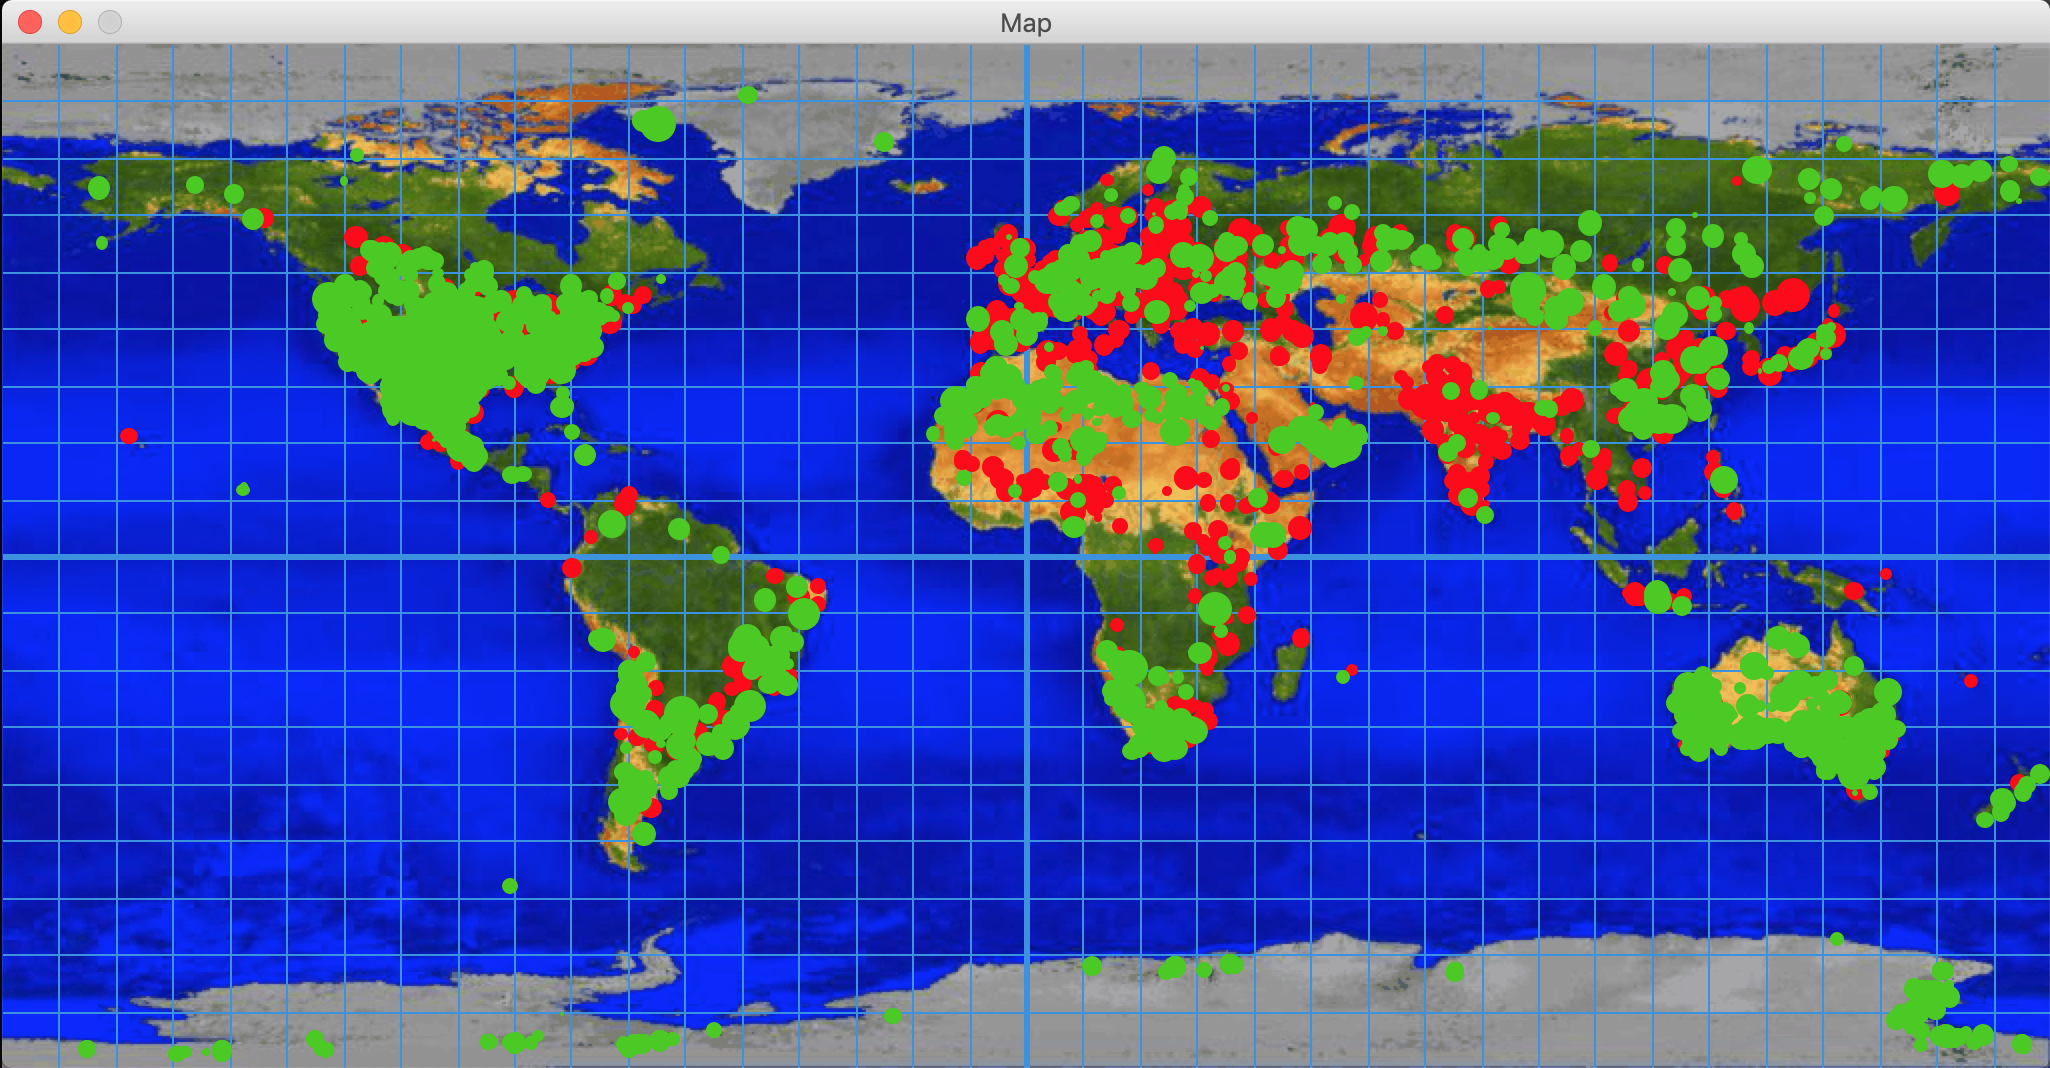
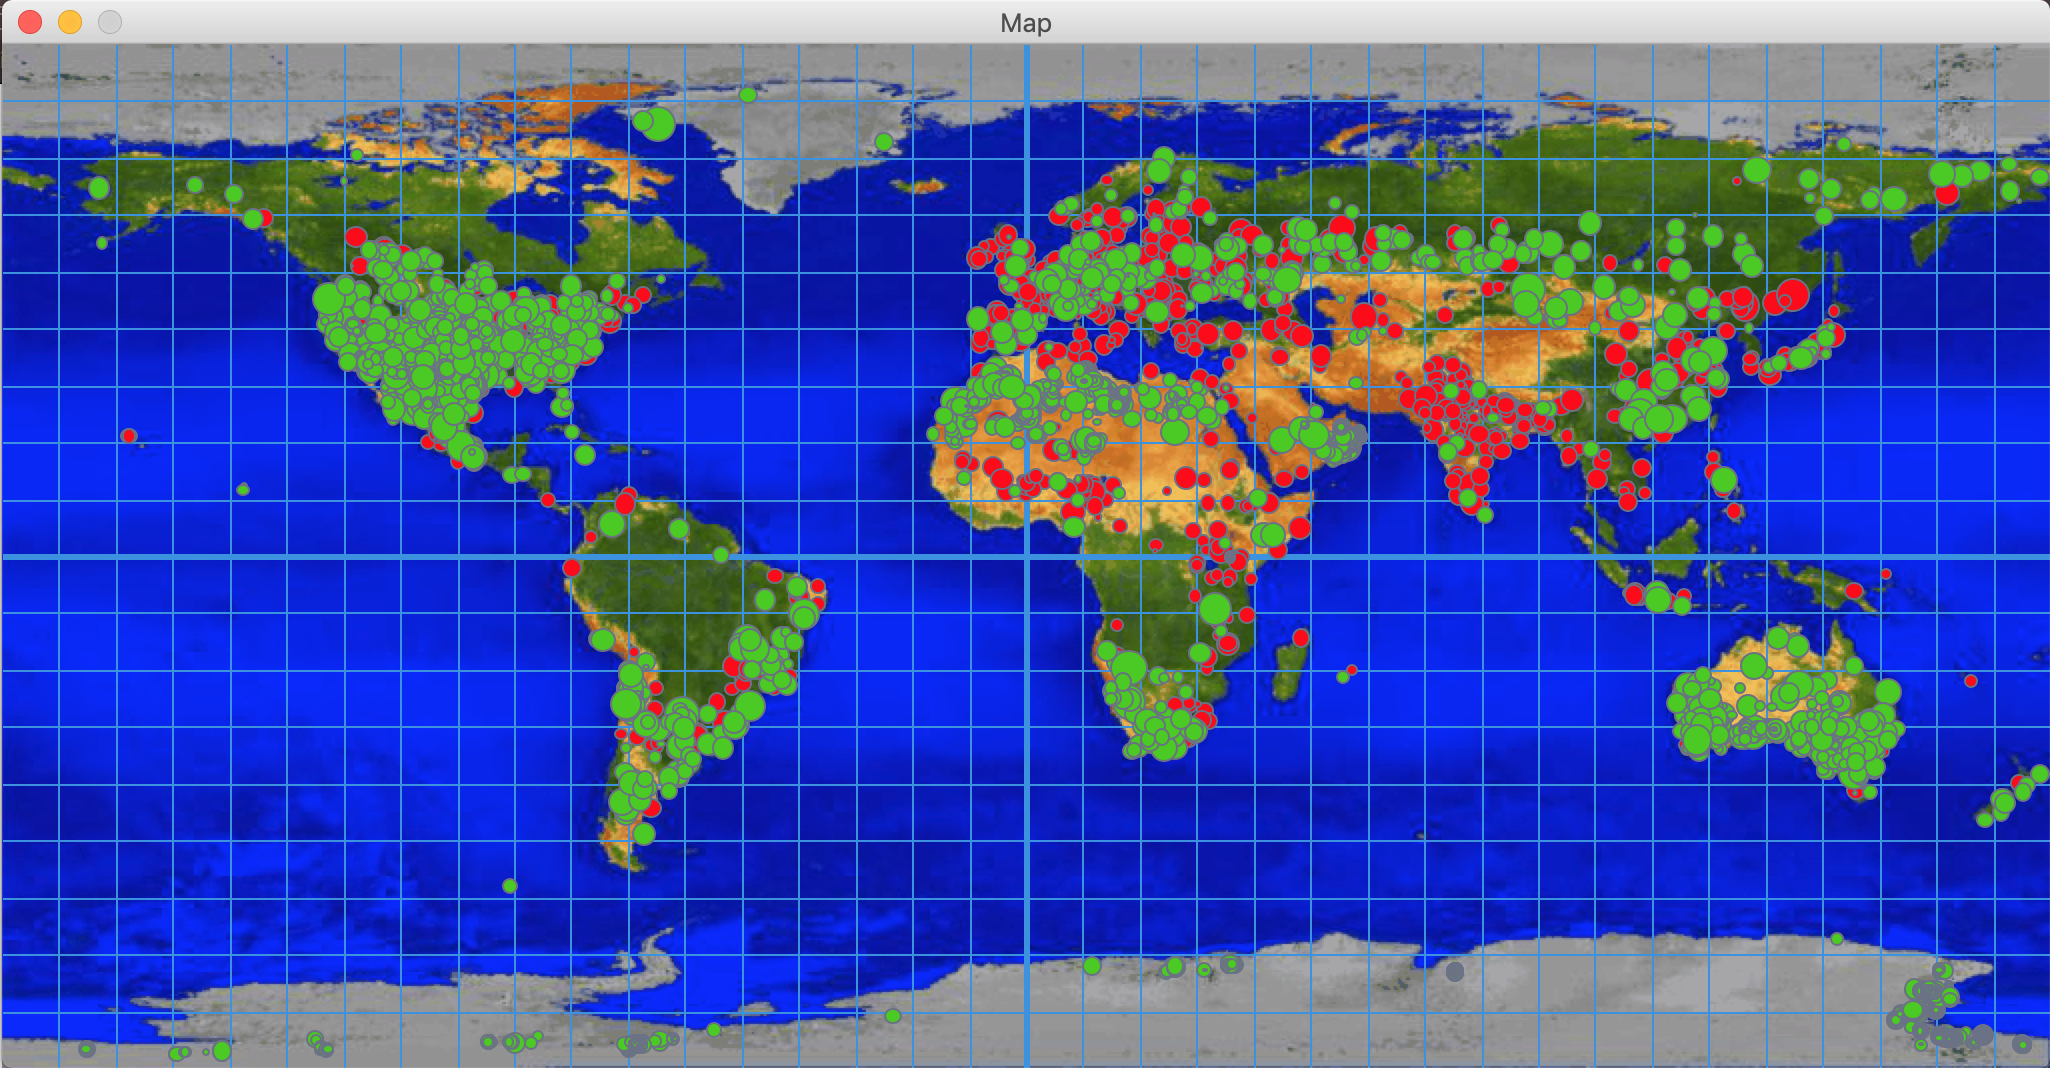
finished plotting and screenshot

diff --git a/Meteor.py b/Meteor.py
@@ -75,10 +75,10 @@ for i in locMass:
     #print(size)
     cir = Circle(Point(long, lat), size)
     if i[2] == "Fell":
-        cir.setOutline("red")
+        cir.setOutline("#6c7287")
         cir.setFill("red")
     elif i[2] == "Found":
-        cir.setOutline("#45cb06")
+        cir.setOutline("#6c7287")
         cir.setFill("#45cb06")
     else:
         cir.setOutline("white")
